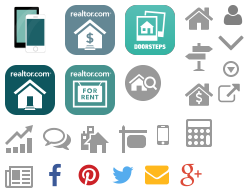
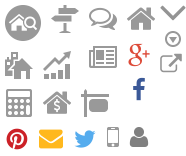
new sprite file generated

diff --git a/output/css/sprite.css b/output/css/sprite.css
@@ -1,5 +1,5 @@
 .svg-icon-advice {
-	background: url(svg/sprite.css-8d8425c2.svg) 18.095238095238095% 75.9493670886076% no-repeat;
+	background: url(svg/sprite.css-454bdac1.svg) 56.75675675675676% 0 no-repeat;
 }
 
 .svg-icon-advice-dims {
@@ -8,7 +8,7 @@
 }
 
 .svg-icon-angle-down {
-	background: url(svg/sprite.css-8d8425c2.svg) 98.1981981981982% 17.647058823529413% no-repeat;
+	background: url(svg/sprite.css-454bdac1.svg) 100% 0 no-repeat;
 }
 
 .svg-icon-angle-down-dims {
@@ -16,53 +16,8 @@
 	height: 26px;
 }
 
-.svg-icon-app-doorsteps {
-	background: url(svg/sprite.css-8d8425c2.svg) 63.829787234042556% 0 no-repeat;
-}
-
-.svg-icon-app-doorsteps-dims {
-	width: 60px;
-	height: 60px;
-}
-
-.svg-icon-app-mobile {
-	background: url(svg/sprite.css-8d8425c2.svg) 0 0 no-repeat;
-}
-
-.svg-icon-app-mobile-dims {
-	width: 60px;
-	height: 60px;
-}
-
-.svg-icon-app-mortgage {
-	background: url(svg/sprite.css-8d8425c2.svg) 31.914893617021278% 0 no-repeat;
-}
-
-.svg-icon-app-mortgage-dims {
-	width: 60px;
-	height: 60px;
-}
-
-.svg-icon-app-realtor {
-	background: url(svg/sprite.css-8d8425c2.svg) 0 44.11764705882353% no-repeat;
-}
-
-.svg-icon-app-realtor-dims {
-	width: 60px;
-	height: 60px;
-}
-
-.svg-icon-app-rentals {
-	background: url(svg/sprite.css-8d8425c2.svg) 31.914893617021278% 44.11764705882353% no-repeat;
-}
-
-.svg-icon-app-rentals-dims {
-	width: 60px;
-	height: 60px;
-}
-
 .svg-icon-apt-for-rent {
-	background: url(svg/sprite.css-8d8425c2.svg) 36.19047619047619% 75.9493670886076% no-repeat;
+	background: url(svg/sprite.css-454bdac1.svg) 0 38.983050847457626% no-repeat;
 }
 
 .svg-icon-apt-for-rent-dims {
@@ -71,7 +26,7 @@
 }
 
 .svg-icon-down-arrow-circle {
-	background: url(svg/sprite.css-8d8425c2.svg) 98.1981981981982% 32.94117647058823% no-repeat;
+	background: url(svg/sprite.css-454bdac1.svg) 100% 20% no-repeat;
 }
 
 .svg-icon-down-arrow-circle-dims {
@@ -80,7 +35,7 @@
 }
 
 .svg-icon-envelope {
-	background: url(svg/sprite.css-8d8425c2.svg) 65.42056074766356% 97.53086419753086% no-repeat;
+	background: url(svg/sprite.css-454bdac1.svg) 22.36842105263158% 100% no-repeat;
 }
 
 .svg-icon-envelope-dims {
@@ -89,7 +44,7 @@
 }
 
 .svg-icon-external {
-	background: url(svg/sprite.css-8d8425c2.svg) 96.46017699115045% 47.12643678160919% no-repeat;
+	background: url(svg/sprite.css-454bdac1.svg) 97.5609756097561% 38.80597014925373% no-repeat;
 }
 
 .svg-icon-external-dims {
@@ -98,7 +53,7 @@
 }
 
 .svg-icon-facebook {
-	background: url(svg/sprite.css-8d8425c2.svg) 17.757009345794394% 97.53086419753086% no-repeat;
+	background: url(svg/sprite.css-454bdac1.svg) 80.26315789473684% 59.01639344262295% no-repeat;
 }
 
 .svg-icon-facebook-dims {
@@ -107,7 +62,7 @@
 }
 
 .svg-icon-google-plus {
-	background: url(svg/sprite.css-8d8425c2.svg) 81.30841121495327% 97.53086419753086% no-repeat;
+	background: url(svg/sprite.css-454bdac1.svg) 80.26315789473684% 31.147540983606557% no-repeat;
 }
 
 .svg-icon-google-plus-dims {
@@ -116,7 +71,7 @@
 }
 
 .svg-icon-home-for-sale {
-	background: url(svg/sprite.css-8d8425c2.svg) 54.285714285714285% 75.9493670886076% no-repeat;
+	background: url(svg/sprite.css-454bdac1.svg) 51.351351351351354% 71.1864406779661% no-repeat;
 }
 
 .svg-icon-home-for-sale-dims {
@@ -125,7 +80,7 @@
 }
 
 .svg-icon-home-values {
-	background: url(svg/sprite.css-8d8425c2.svg) 85.71428571428571% 0 no-repeat;
+	background: url(svg/sprite.css-454bdac1.svg) 82.43243243243244% 0 no-repeat;
 }
 
 .svg-icon-home-values-dims {
@@ -134,7 +89,7 @@
 }
 
 .svg-icon-local-info {
-	background: url(svg/sprite.css-8d8425c2.svg) 85.71428571428571% 24.050632911392405% no-repeat;
+	background: url(svg/sprite.css-454bdac1.svg) 31.08108108108108% 0 no-repeat;
 }
 
 .svg-icon-local-info-dims {
@@ -143,7 +98,7 @@
 }
 
 .svg-icon-mobile-menu-toggle {
-	background: url(svg/sprite.css-8d8425c2.svg) 67.2566371681416% 72.28915662650603% no-repeat;
+	background: url(svg/sprite.css-454bdac1.svg) 62.19512195121951% 96.82539682539682% no-repeat;
 }
 
 .svg-icon-mobile-menu-toggle-dims {
@@ -152,7 +107,7 @@
 }
 
 .svg-icon-mortgage {
-	background: url(svg/sprite.css-8d8425c2.svg) 85.71428571428571% 48.10126582278481% no-repeat;
+	background: url(svg/sprite.css-454bdac1.svg) 25.675675675675677% 71.1864406779661% no-repeat;
 }
 
 .svg-icon-mortgage-dims {
@@ -161,7 +116,7 @@
 }
 
 .svg-icon-mortgage-calculator {
-	background: url(svg/sprite.css-8d8425c2.svg) 85.71428571428571% 72.15189873417721% no-repeat;
+	background: url(svg/sprite.css-454bdac1.svg) 0 71.1864406779661% no-repeat;
 }
 
 .svg-icon-mortgage-calculator-dims {
@@ -170,7 +125,7 @@
 }
 
 .svg-icon-news {
-	background: url(svg/sprite.css-8d8425c2.svg) 0 100% no-repeat;
+	background: url(svg/sprite.css-454bdac1.svg) 56.75675675675676% 32.20338983050848% no-repeat;
 }
 
 .svg-icon-news-dims {
@@ -179,7 +134,7 @@
 }
 
 .svg-icon-pinterest {
-	background: url(svg/sprite.css-8d8425c2.svg) 33.64485981308411% 97.53086419753086% no-repeat;
+	background: url(svg/sprite.css-454bdac1.svg) 0 100% no-repeat;
 }
 
 .svg-icon-pinterest-dims {
@@ -188,7 +143,7 @@
 }
 
 .svg-icon-recent-search {
-	background: url(svg/sprite.css-8d8425c2.svg) 59.40594059405941% 40% no-repeat;
+	background: url(svg/sprite.css-454bdac1.svg) 0 0 no-repeat;
 }
 
 .svg-icon-recent-search-dims {
@@ -197,7 +152,7 @@
 }
 
 .svg-icon-trending {
-	background: url(svg/sprite.css-8d8425c2.svg) 0 75.9493670886076% no-repeat;
+	background: url(svg/sprite.css-454bdac1.svg) 25.675675675675677% 38.983050847457626% no-repeat;
 }
 
 .svg-icon-trending-dims {
@@ -206,7 +161,7 @@
 }
 
 .svg-icon-twitter {
-	background: url(svg/sprite.css-8d8425c2.svg) 49.532710280373834% 97.53086419753086% no-repeat;
+	background: url(svg/sprite.css-454bdac1.svg) 44.73684210526316% 100% no-repeat;
 }
 
 .svg-icon-twitter-dims {
@@ -215,7 +170,7 @@
 }
 
 .svg-icon-user {
-	background: url(svg/sprite.css-8d8425c2.svg) 100% 0 no-repeat;
+	background: url(svg/sprite.css-454bdac1.svg) 79.48717948717949% 96.82539682539682% no-repeat;
 }
 
 .svg-icon-user-dims {
